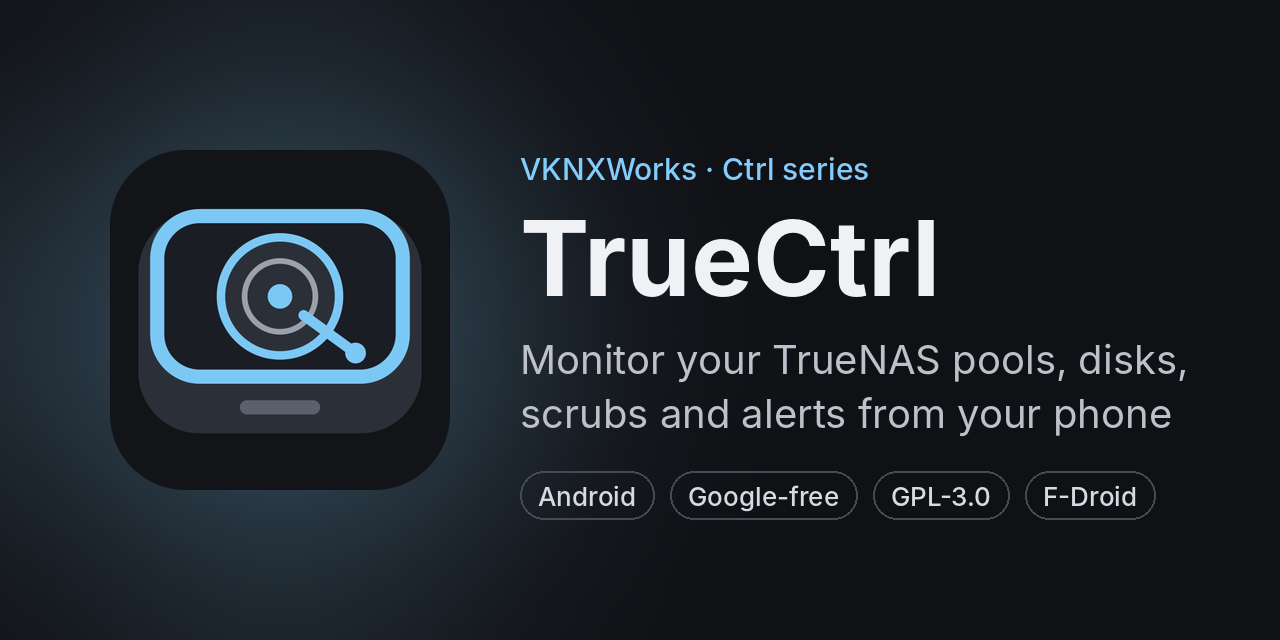
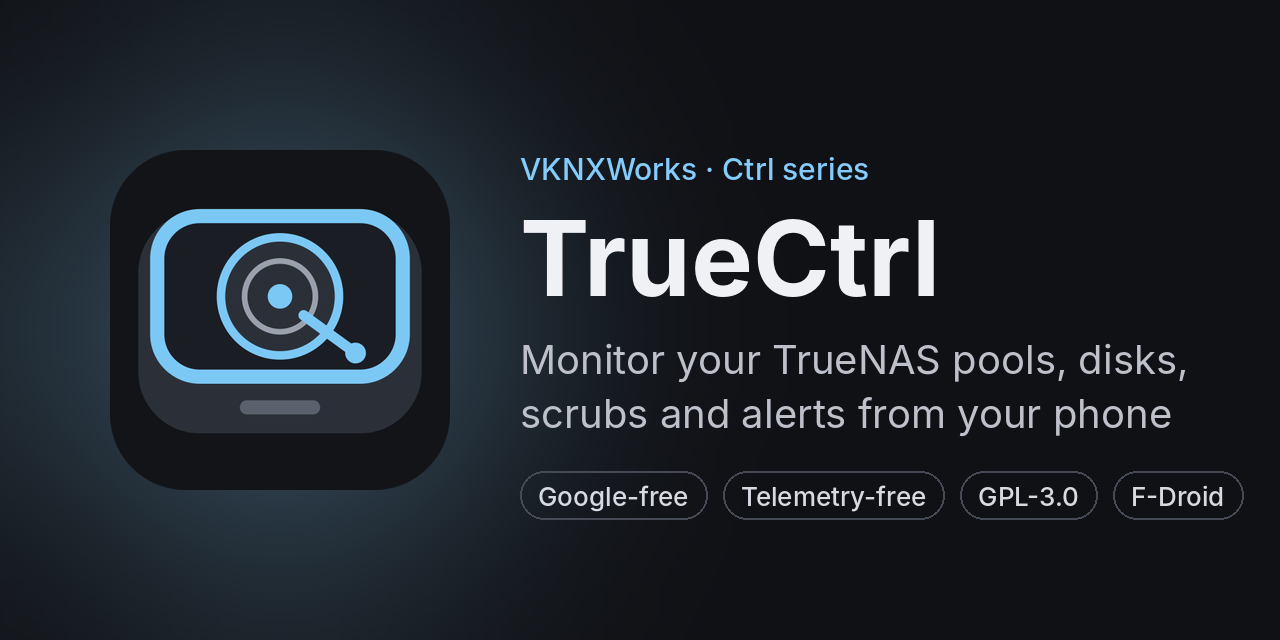
TrueCtrl 0.9.2: telemetry-free
Remove the opt-in Aptabase usage stats completely: Telemetry.kt, the
one-time UsageStatsPrompt, the Usage stats setting and its strings, all
tracking calls (screens, tabs, server setup), the
APTABASE_KEY/APTABASE_HOST build config and the CI key check. The stored
stats choice is deleted from the phone at start-up.
README: Telemetry-free badge and a Privacy section; new link preview image.

Claude-Session: https://claude.ai/code/session_01EwhEpZ1DKRJef9Cqeiv5g2

Changed region(s): [[0.4062, 0.7188, 0.9688, 0.8125]]

diff --git a/app/src/main/java/com/vknxworks/truectrl/ui/nav/AppRoot.kt b/app/src/main/java/com/vknxworks/truectrl/ui/nav/AppRoot.kt
@@ -36,7 +36,6 @@ import androidx.compose.material3.Surface
 import androidx.compose.material3.Text
 import androidx.compose.runtime.Composable
 import androidx.compose.runtime.CompositionLocalProvider
-import androidx.compose.runtime.LaunchedEffect
 import androidx.compose.runtime.getValue
 import androidx.compose.runtime.mutableStateOf
 import androidx.compose.runtime.remember
@@ -69,7 +68,6 @@ import com.vknxworks.truectrl.ui.overview.AlertsScreen
 import com.vknxworks.truectrl.ui.overview.OverviewScreen
 import com.vknxworks.truectrl.ui.protection.ProtectionScreen
 import com.vknxworks.truectrl.ui.settings.SettingsScreen
-import com.vknxworks.truectrl.ui.settings.UsageStatsPrompt
 import com.vknxworks.truectrl.ui.settings.YouScreen
 import com.vknxworks.truectrl.ui.sharing.SharingScreen
 import com.vknxworks.truectrl.ui.storage.DiskScreen
@@ -98,17 +96,15 @@ private data class TopDest(
     @StringRes val label: Int,
     val icon: ImageVector,
     val selectedIcon: ImageVector,
-    /** Fixed name for usage stats. */
-    val statsName: String,
 )
 
 /** The five tabs. Overview is the only summary screen; account and settings open from the profile picture. */
 private val topDestinations = listOf(
-    TopDest(OverviewRoute, R.string.tab_overview, Icons.Outlined.Dashboard, Icons.Filled.Dashboard, "overview"),
-    TopDest(StorageRoute, R.string.tab_storage, Icons.Outlined.Storage, Icons.Filled.Storage, "storage"),
-    TopDest(ProtectionRoute, R.string.tab_protection, Icons.Outlined.Shield, Icons.Filled.Shield, "protection"),
-    TopDest(SharingRoute, R.string.tab_sharing, Icons.Outlined.FolderShared, Icons.Filled.FolderShared, "sharing"),
-    TopDest(SystemRoute, R.string.tab_system, Icons.Outlined.Dns, Icons.Filled.Dns, "system"),
+    TopDest(OverviewRoute, R.string.tab_overview, Icons.Outlined.Dashboard, Icons.Filled.Dashboard),
+    TopDest(StorageRoute, R.string.tab_storage, Icons.Outlined.Storage, Icons.Filled.Storage),
+    TopDest(ProtectionRoute, R.string.tab_protection, Icons.Outlined.Shield, Icons.Filled.Shield),
+    TopDest(SharingRoute, R.string.tab_sharing, Icons.Outlined.FolderShared, Icons.Filled.FolderShared),
+    TopDest(SystemRoute, R.string.tab_system, Icons.Outlined.Dns, Icons.Filled.Dns),
 )
 
 @Composable
@@ -120,18 +116,7 @@ private fun MainScaffold() {
     val selectedIndex = topDestinations.indexOfFirst { top -> dest?.hierarchy?.any { it.hasRoute(top.route::class) } == true }
     val tabs = topDestinations.map { TabItem(stringResource(it.label), it.icon, it.selectedIcon) }
 
-    // Usage stats (only if the user opted in): the kind of screen, never its arguments (like a server ID).
-    val c = LocalContext.current.container
-    val entryId = backStack?.id
-    val screen = dest?.route?.let(::screenName)
-    LaunchedEffect(entryId) {
-        if (screen != null) c.telemetry.track("screen_viewed", mapOf("screen" to screen))
-    }
-    // Shown only here, after the first server has been set up and signed in.
-    UsageStatsPrompt()
-
     fun selectTab(i: Int) {
-        if (i != selectedIndex) c.telemetry.track("section_opened", mapOf("section" to topDestinations[i].statsName))
         navController.navigate(topDestinations[i].route) {
             popUpTo(navController.graph.findStartDestination().id) { saveState = true }
             launchSingleTop = true
@@ -219,13 +204,6 @@ private fun PhoneLayout(
         }
     }
 }
-
-/**
- * "com.vknxworks.truectrl.ui.nav.EditServerRoute/{id}" -> "EditServer". Only the route's class name:
- * arguments (server IDs) are dropped.
- */
-private fun screenName(route: String): String =
-    route.substringBefore('/').substringBefore('?').substringAfterLast('.').removeSuffix("Route")
 
 @Composable
 private fun AppNavHost(navController: NavHostController) {

diff --git a/app/src/main/java/com/vknxworks/truectrl/data/settings/AppSettings.kt b/app/src/main/java/com/vknxworks/truectrl/data/settings/AppSettings.kt
@@ -16,6 +16,7 @@ import kotlinx.coroutines.flow.SharingStarted
 import kotlinx.coroutines.flow.StateFlow
 import kotlinx.coroutines.flow.map
 import kotlinx.coroutines.flow.stateIn
+import kotlinx.coroutines.launch
 
 /** App-wide preferences (not per server). Server settings and secrets live elsewhere, encrypted. */
 val Context.appDataStore: DataStore<Preferences> by preferencesDataStore(name = "truectrl")
@@ -36,10 +37,6 @@ data class AppSettings(
     val backupMaxAgeDays: Int = 7,
     /** Ask for the fingerprint, face or screen lock when TrueCtrl opens. */
     val appLock: Boolean = false,
-    /** Opt-in anonymous usage stats (off until the user says yes). */
-    val usageStats: Boolean = false,
-    /** Whether the one-time usage stats question has been answered. */
-    val usageStatsAsked: Boolean = false,
 )
 
 class SettingsRepository(private val context: Context, scope: CoroutineScope) {
@@ -49,8 +46,6 @@ class SettingsRepository(private val context: Context, scope: CoroutineScope) {
         val poolWarn = intPreferencesKey("pool_warn_percent")
         val backupAge = intPreferencesKey("backup_max_age_days")
         val appLock = booleanPreferencesKey("app_lock")
-        val usageStats = booleanPreferencesKey("usage_stats")
-        val usageStatsAsked = booleanPreferencesKey("usage_stats_asked")
     }
 
     val settings: StateFlow<AppSettings> = context.appDataStore.data
@@ -60,14 +55,24 @@ class SettingsRepository(private val context: Context, scope: CoroutineScope) {
     /** The stored settings as they're read and changed, without [settings]' placeholder defaults at start-up. */
     val stored: Flow<AppSettings> = context.appDataStore.data.map { it.toSettings() }
 
+    init {
+        // Versions before 0.9.2 stored the choice for the old opt-in stats under keys starting with
+        // "usage_". Nothing uses them any more, so they're deleted from the phone.
+        scope.launch {
+            runCatching {
+                context.appDataStore.edit { p ->
+                    p.asMap().keys.filter { it.name.startsWith("usage_") }.forEach { p.remove(it) }
+                }
+            }
+        }
+    }
+
     private fun Preferences.toSettings() = AppSettings(
         theme = enumOr(this[K.theme], ThemeChoice.SYSTEM),
         dynamicColor = this[K.dynamic] ?: false,
         poolWarnPercent = (this[K.poolWarn] ?: 80).coerceIn(50, 99),
         backupMaxAgeDays = (this[K.backupAge] ?: 7).coerceIn(1, 90),
         appLock = this[K.appLock] ?: false,
-        usageStats = this[K.usageStats] ?: false,
-        usageStatsAsked = this[K.usageStatsAsked] ?: false,
     )
 
     suspend fun update(transform: (AppSettings) -> AppSettings) {
@@ -78,8 +83,6 @@ class SettingsRepository(private val context: Context, scope: CoroutineScope) {
             p[K.poolWarn] = s.poolWarnPercent
             p[K.backupAge] = s.backupMaxAgeDays
             p[K.appLock] = s.appLock
-            p[K.usageStats] = s.usageStats
-            p[K.usageStatsAsked] = s.usageStatsAsked
         }
     }
 

diff --git a/app/src/main/java/com/vknxworks/truectrl/ui/settings/SettingsScreen.kt b/app/src/main/java/com/vknxworks/truectrl/ui/settings/SettingsScreen.kt
@@ -8,7 +8,6 @@ import androidx.compose.foundation.rememberScrollState
 import androidx.compose.foundation.verticalScroll
 import androidx.compose.material.icons.Icons
 import androidx.compose.material.icons.filled.DarkMode
-import androidx.compose.material.icons.filled.Insights
 import androidx.compose.material.icons.filled.Palette
 import androidx.compose.material.icons.filled.Storage
 import androidx.compose.runtime.Composable
@@ -34,7 +33,7 @@ import com.vknxworks.truectrl.ui.components.GroupSwitch
 import com.vknxworks.truectrl.ui.components.ScreenTopBar
 import kotlinx.coroutines.launch
 
-/** App settings: appearance, notifications, warnings, usage stats. */
+/** App settings: appearance, notifications, warnings and app lock. */
 @Composable
 fun SettingsScreen() {
     val context = LocalContext.current
@@ -96,16 +95,6 @@ fun SettingsScreen() {
                         if (on) c.appLock.unlocked()
                         c.appScope.launch { c.settings.update { it.copy(appLock = on) } }
                     }
-                }
-            }
-            if (c.telemetry.available) {
-                Group(stringResource(R.string.group_usage_stats), footer = stringResource(R.string.usage_stats_description)) {
-                    GroupSwitch(
-                        stringResource(R.string.usage_stats_switch),
-                        stringResource(R.string.usage_stats_switch_subtitle),
-                        checked = settings.usageStats,
-                        icon = Icons.Filled.Insights,
-                    ) { on -> c.appScope.launch { c.settings.update { it.copy(usageStats = on, usageStatsAsked = true) } } }
                 }
             }
         }

diff --git a/app/src/main/java/com/vknxworks/truectrl/AppContainer.kt b/app/src/main/java/com/vknxworks/truectrl/AppContainer.kt
@@ -15,7 +15,6 @@ import com.vknxworks.truectrl.data.storage.DatasetRepository
 import com.vknxworks.truectrl.data.storage.StorageRepository
 import com.vknxworks.truectrl.data.server.Sessions
 import com.vknxworks.truectrl.data.settings.SettingsRepository
-import com.vknxworks.truectrl.data.telemetry.Telemetry
 import kotlinx.coroutines.CoroutineScope
 import kotlinx.coroutines.Dispatchers
 import kotlinx.coroutines.SupervisorJob
@@ -31,9 +30,6 @@ class AppContainer(val context: Context) {
 
     val settings = SettingsRepository(context, appScope)
     val notifySettings = NotifySettingsRepository(context, appScope)
-
-    /** Opt-in anonymous usage stats, with its own HTTP client (normal certificate checks, no TrueNAS pins). */
-    val telemetry = Telemetry(context, settings, appScope)
 
     /**
      * Shared HTTP client. Each server gets a copy with its own certificate pin (see httpFor), so a

diff --git a/app/src/main/java/com/vknxworks/truectrl/ui/setup/SetupScreen.kt b/app/src/main/java/com/vknxworks/truectrl/ui/setup/SetupScreen.kt
@@ -249,17 +249,6 @@ fun SetupScreen(editId: String? = null, onDone: () -> Unit, onCancel: (() -> Uni
     fun save() {
         val result = connected ?: return
         c.sessions.add(result.server.copy(readOnly = readOnly), result.secrets)
-        // Usage stats (if opted in): only how the server was set up, never its address, name or user.
-        c.telemetry.track(
-            "server_saved",
-            mapOf(
-                "kind" to if (editId != null) "edited" else "added",
-                "auth" to if (result.server.auth == AuthMethod.API_KEY) "api_key" else "password",
-                "two_factor" to result.server.usesOtp.toString(),
-                "certificate" to if (result.server.certPin.isNotBlank()) "pinned" else "trusted",
-                "read_only" to readOnly.toString(),
-            ),
-        )
         onDone()
     }
 

diff --git a/app/src/main/java/com/vknxworks/truectrl/MainActivity.kt b/app/src/main/java/com/vknxworks/truectrl/MainActivity.kt
@@ -27,7 +27,6 @@ class MainActivity : ComponentActivity() {
         // The recent-apps view shows a blank card instead of a snapshot of pools, datasets and shares.
         setRecentsScreenshotEnabled(false)
         val c = container
-        if (savedInstanceState == null) c.telemetry.appOpened()
         setContent {
             val settings by c.settings.settings.collectAsStateWithLifecycle()
             val dark = when (settings.theme) {

diff --git a/README.md b/README.md
@@ -2,7 +2,7 @@
 
 **Monitor and manage your TrueNAS server from your phone.**
 
-[![Latest release](https://img.shields.io/github/v/release/VoidedKN0X/TrueCtrl?label=download)](https://github.com/VoidedKN0X/TrueCtrl/releases/latest) ![Android 13+](https://img.shields.io/badge/Android-13%2B-3DDC84?logo=android&logoColor=white) [![License: GPL-3.0](https://img.shields.io/badge/license-GPL--3.0-blue)](LICENSE) [![Sponsor](https://img.shields.io/badge/sponsor-GitHub-ea4aaa?logo=githubsponsors&logoColor=white)](https://github.com/sponsors/VoidedKN0X)
+[![Latest release](https://img.shields.io/github/v/release/VoidedKN0X/TrueCtrl?label=download)](https://github.com/VoidedKN0X/TrueCtrl/releases/latest) ![Android 13+](https://img.shields.io/badge/Android-13%2B-3DDC84?logo=android&logoColor=white) [![License: GPL-3.0](https://img.shields.io/badge/license-GPL--3.0-blue)](LICENSE) ![Telemetry-free](https://img.shields.io/badge/telemetry-none-brightgreen) [![Sponsor](https://img.shields.io/badge/sponsor-GitHub-ea4aaa?logo=githubsponsors&logoColor=white)](https://github.com/sponsors/VoidedKN0X)
 
 TrueCtrl is an Android app for [TrueNAS](https://www.truenas.com/): a fast, touch-first alternative to the web UI for keeping an eye on storage health, protecting your data and handling day-to-day management.
 
@@ -129,17 +129,13 @@ They update whenever TrueCtrl reads the server and after every background check,
 
 Some method names changed between versions (snapshots, services, updates, SMART). TrueCtrl checks the version and the available methods when it connects, and hides anything your version doesn't offer. For example, TrueNAS 25.10 removed SMART test results and attributes from its API, so on 25.10 and newer TrueCtrl shows disk health from TrueNAS's SMART alerts and temperatures instead.
 
-## Usage stats
+## Privacy
 
-TrueCtrl can share anonymous usage stats, **only if you say yes**. It asks once after you've added your first server, and you can change it any time in **Settings > Usage stats**.
+**Telemetry-free.** TrueCtrl has no analytics, crash reporting, usage stats or tracking of any kind. It only talks to the servers you add.
 
-- **Shared:** which tabs and screens you open (the kind of screen, never which pool, dataset, share or app), how a server was set up when you add or edit one (API key or password, two-factor or not, pinned or trusted certificate, read-only mode on or off), your theme setting, the app version, Android version, phone model, language, and phone or tablet.
-- **Never shared:** your server address, hostname or IP, username, API key or password, the names of pools, datasets, shares, apps or anything else on your TrueNAS, or any ID that stays the same between sessions.
-- **Where:** VKNXWorks' own self-hosted [Aptabase](https://aptabase.com) server. Nothing goes to Google or analytics companies. Like any website, the server sees your IP address; Aptabase uses it only to work out the country and doesn't store it. The stats use their own connection with your phone's normal certificate checks; certificates you trusted for your TrueNAS are never used for it.
-
-Builds from source don't include the stats key, so they can't send anything and the setting is hidden. The code is in [`Telemetry.kt`](app/src/main/java/com/vknxworks/truectrl/data/telemetry/Telemetry.kt).
-
-Apart from these opt-in stats, TrueCtrl only talks to your own TrueNAS servers, over HTTPS and a secure WebSocket.
+- **Servers:** your own TrueNAS servers, over HTTPS and a secure WebSocket. Push alerts come from TrueNAS through your own ntfy server and the ntfy app (UnifiedPush); TrueCtrl doesn't connect to ntfy itself.
+- **Google-free:** no Google Play services or Google libraries that contact Google.
+- **Links:** the Support, Report a bug, Source code and Licence rows in About open in your browser; the app itself doesn't contact GitHub.
 
 ## Build from source
 

diff --git a/CHANGELOG.md b/CHANGELOG.md
@@ -4,11 +4,16 @@ What changed in each TrueCtrl release. Every release on the [Releases page](http
 
 To publish a new version: bump `versionCode` and `versionName` in `app/build.gradle.kts`, add a section here, and push to `main`. Pushes without a version bump only build; they don't make a release.
 
-## Unreleased
+## v0.9.2 (2026-10-20)
+
+### Privacy
+
+- **No more usage stats: TrueCtrl is now telemetry-free.** The optional anonymous usage stats are gone completely, along with the Usage stats setting in Settings and the one-time question after adding your first server. The app no longer contacts VKNXWorks' stats server at all, and the settings it used are deleted from your phone when you update. TrueCtrl now only talks to your own TrueNAS servers
 
 ### Changed
 
-- **README**: a Screenshots section (screenshots are coming soon), and a link preview image (`.github/assets/social-preview.png`) with TrueCtrl's icon, name and summary, for when the repo is shared on Reddit, Discord or elsewhere
+- The **Settings** row on your account page now reads "Appearance, notifications, warnings and app lock"
+- **README**: a Screenshots section (screenshots are coming soon), a new Privacy section and a "Telemetry-free" badge, and a link preview image (`.github/assets/social-preview.png`) with TrueCtrl's icon, name and summary, for when the repo is shared on Reddit, Discord or elsewhere
 
 ## v0.9.1 (2026-10-19)
 
